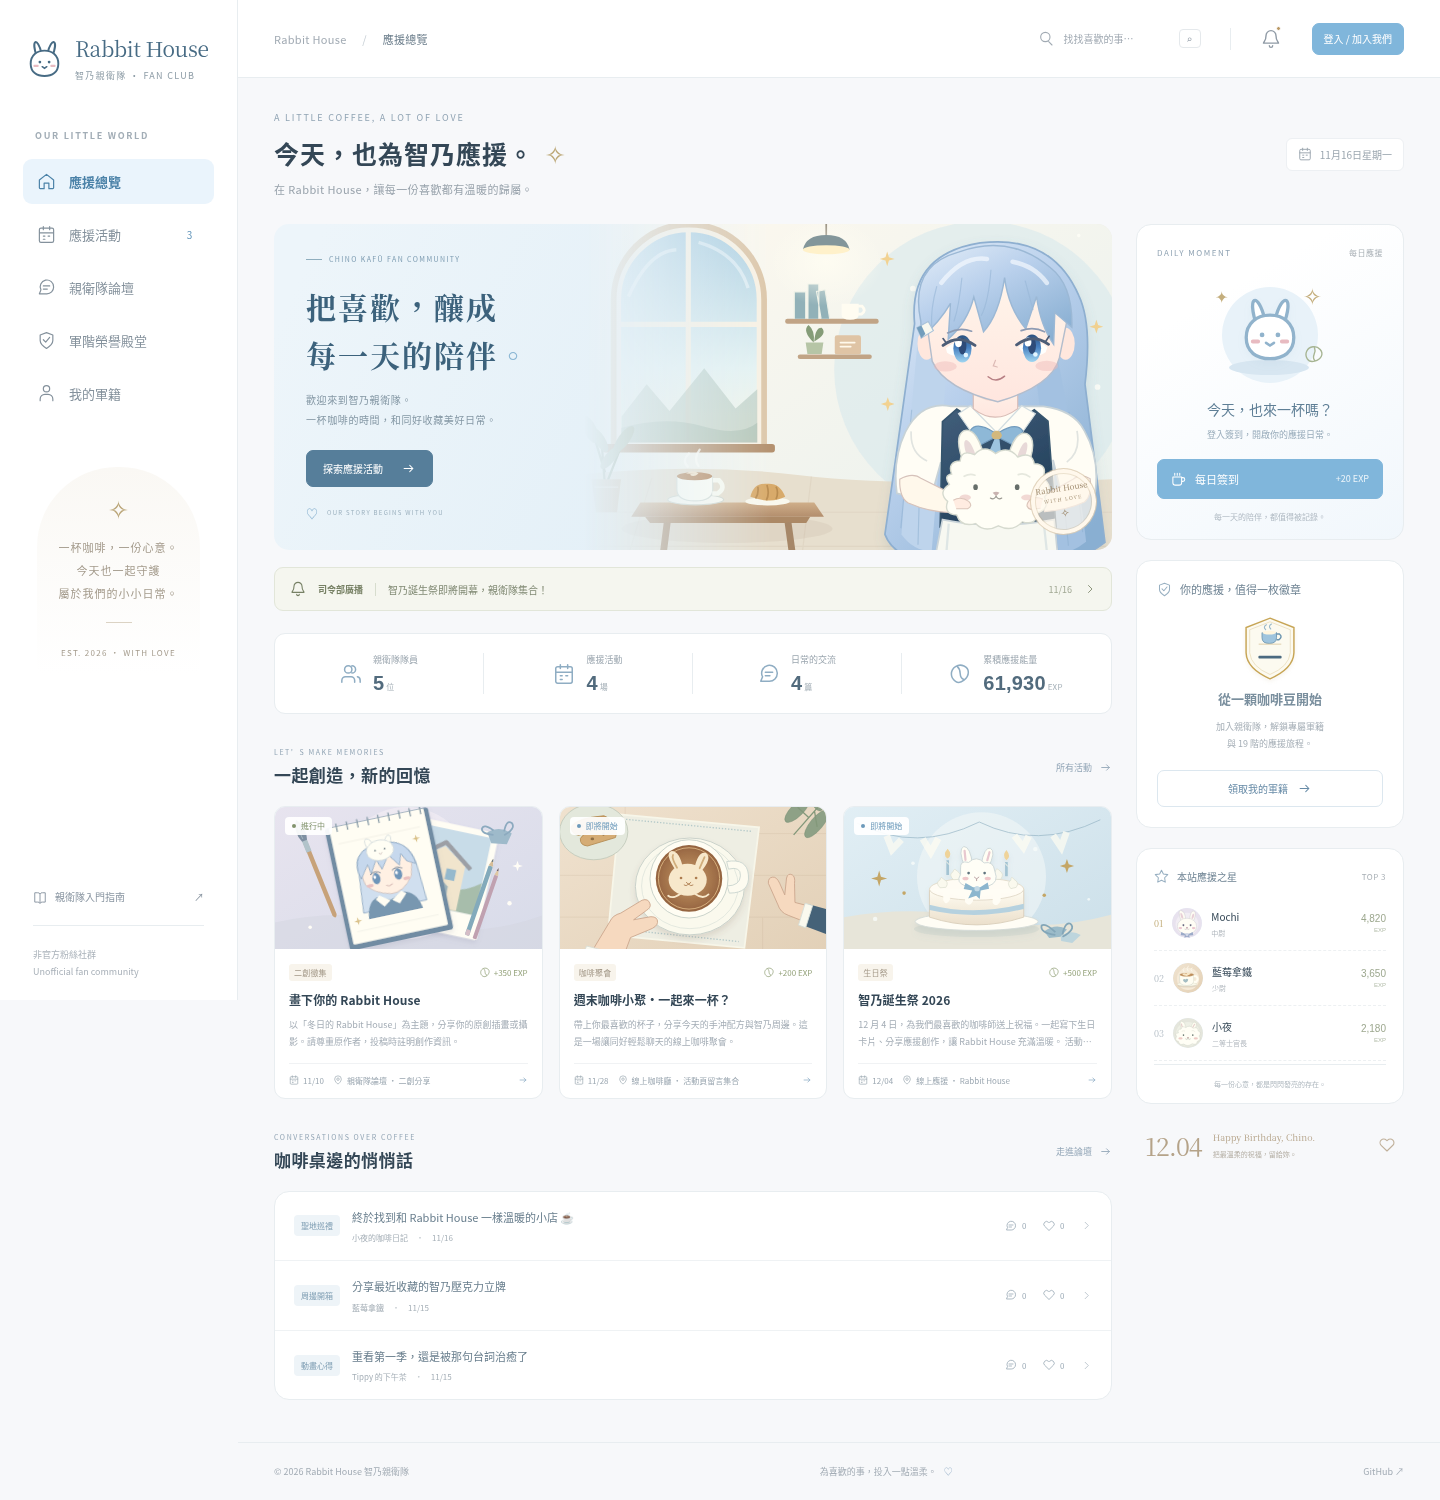
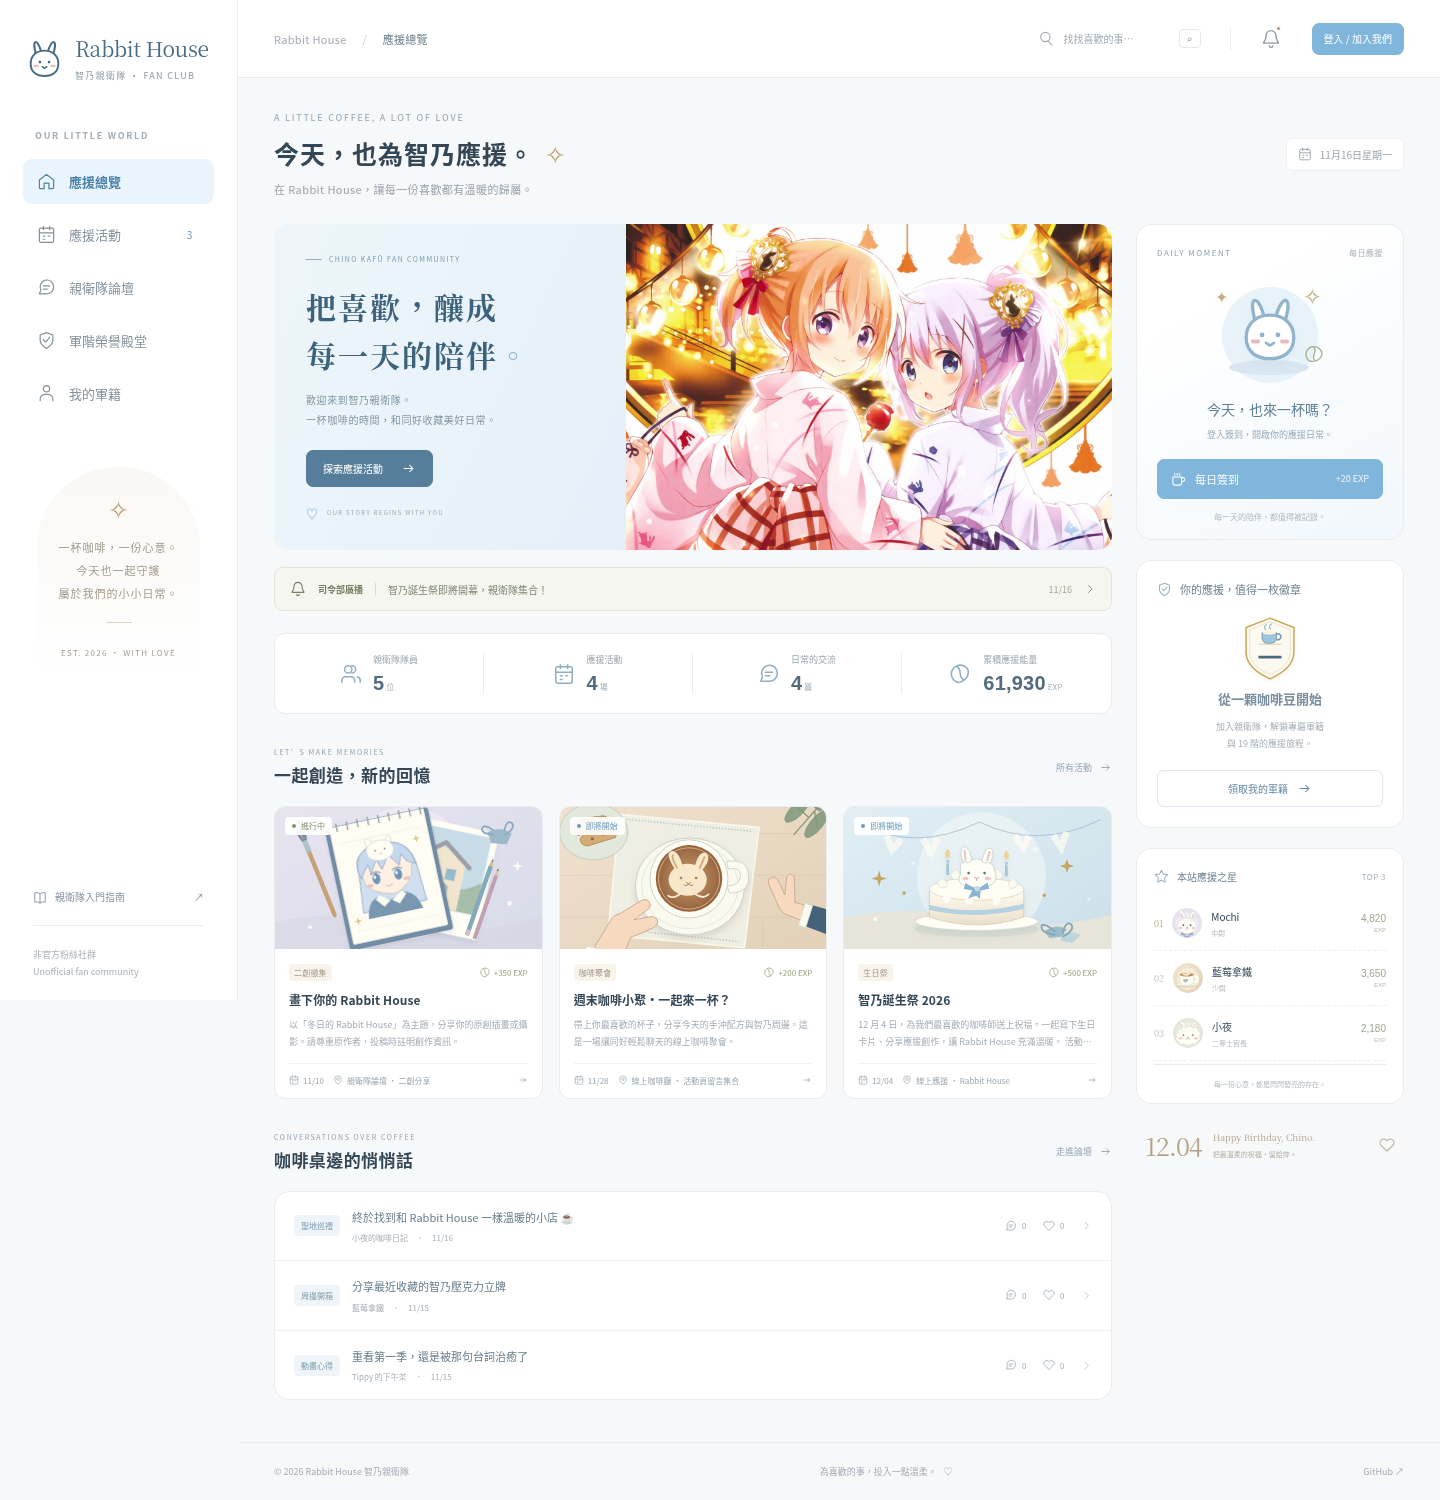
Replace homepage hero with festival artwork and update responsive previews

Changed region(s): [[0.4375, 0.1227, 0.7812, 0.368]]

diff --git a/static/app.js b/static/app.js
@@ -251,7 +251,7 @@ function home() {
   const open = state.events
     .filter((e) => eventState(e)[0] !== "ended")
     .slice(0, 3);
-  return `<div class="home-welcome"><div><span class="eyebrow">A LITTLE COFFEE, A LOT OF LOVE</span><h1>${state.user ? `歡迎回來，${esc(state.user.username)}。` : "今天，也為智乃應援。"} <span class="title-spark">✧</span></h1><p>在 Rabbit House，讓每一份喜歡都有溫暖的歸屬。</p></div><div class="today-label">${icon("calendar")} <span>${new Intl.DateTimeFormat("zh-TW", { month: "long", day: "numeric", weekday: "long", timeZone: "Asia/Taipei" }).format(new Date())}</span></div></div><div class="dashboard-grid"><div class="dashboard-main"><section class="hero"><div class="hero-content"><div class="hero-kicker"><span></span> CHINO KAFŪ FAN COMMUNITY</div><h2>把喜歡，釀成<br>每一天的陪伴<span>。</span></h2><p>歡迎來到智乃親衛隊。<br>一杯咖啡的時間，和同好收藏美好日常。</p><a class="button dark" href="/events">探索應援活動 ${icon("arrow")}</a><div class="hero-footnote"><span>♡</span> OUR STORY BEGINS WITH YOU</div></div><div class="hero-art"><img src="/static/art/hero.svg" alt="粉藍長髮的智乃與白色安哥拉兔在溫暖的 Rabbit House 咖啡廳"></div><span class="hero-stamp">Rabbit House<br><b>WITH LOVE</b><span>✧</span></span></section>${ann ? `<a href="/forum/${ann.id}" class="announcement-strip"><span class="broadcast-icon">${icon("bell")}</span><span class="broadcast-label">司令部廣播</span><span class="broadcast-title">${esc(ann.title)}</span><span class="broadcast-date">${date(ann.created_at)}</span>${icon("chevron")}</a>` : ""}<div class="stat-grid"><div>${icon("people")}<span><small>親衛隊隊員</small><b>${fmt(state.stats.members)}<em> 位</em></b></span></div><div>${icon("calendar")}<span><small>應援活動</small><b>${fmt(state.stats.events)}<em> 場</em></b></span></div><div>${icon("forum")}<span><small>日常的交流</small><b>${fmt(state.stats.posts)}<em> 篇</em></b></span></div><div>${icon("bean")}<span><small>累積應援能量</small><b>${fmt(state.stats.total_exp)}<em> EXP</em></b></span></div></div>${sectionHead("LET’S MAKE MEMORIES", "一起創造，新的回憶", "/events", "所有活動")}<div class="event-grid home-events">${open.length ? open.map(eventCard).join("") : '<div class="empty-state">新的應援活動正在準備中。</div>'}</div><section class="forum-preview">${sectionHead("CONVERSATIONS OVER COFFEE", "咖啡桌邊的悄悄話", "/forum", "走進論壇")}<div class="card post-list">${
+  return `<div class="home-welcome"><div><span class="eyebrow">A LITTLE COFFEE, A LOT OF LOVE</span><h1>${state.user ? `歡迎回來，${esc(state.user.username)}。` : "今天，也為智乃應援。"} <span class="title-spark">✧</span></h1><p>在 Rabbit House，讓每一份喜歡都有溫暖的歸屬。</p></div><div class="today-label">${icon("calendar")} <span>${new Intl.DateTimeFormat("zh-TW", { month: "long", day: "numeric", weekday: "long", timeZone: "Asia/Taipei" }).format(new Date())}</span></div></div><div class="dashboard-grid"><div class="dashboard-main"><section class="hero"><div class="hero-content"><div class="hero-kicker"><span></span> CHINO KAFŪ FAN COMMUNITY</div><h2>把喜歡，釀成<br>每一天的陪伴<span>。</span></h2><p>歡迎來到智乃親衛隊。<br>一杯咖啡的時間，和同好收藏美好日常。</p><a class="button dark" href="/events">探索應援活動 ${icon("arrow")}</a><div class="hero-footnote"><span>♡</span> OUR STORY BEGINS WITH YOU</div></div><div class="hero-art"><img src="/static/art/hero-festival.jpg" alt="穿著浴衣的心愛與智乃一同參與祭典"></div><span class="hero-stamp">Rabbit House<br><b>WITH LOVE</b><span>✧</span></span></section>${ann ? `<a href="/forum/${ann.id}" class="announcement-strip"><span class="broadcast-icon">${icon("bell")}</span><span class="broadcast-label">司令部廣播</span><span class="broadcast-title">${esc(ann.title)}</span><span class="broadcast-date">${date(ann.created_at)}</span>${icon("chevron")}</a>` : ""}<div class="stat-grid"><div>${icon("people")}<span><small>親衛隊隊員</small><b>${fmt(state.stats.members)}<em> 位</em></b></span></div><div>${icon("calendar")}<span><small>應援活動</small><b>${fmt(state.stats.events)}<em> 場</em></b></span></div><div>${icon("forum")}<span><small>日常的交流</small><b>${fmt(state.stats.posts)}<em> 篇</em></b></span></div><div>${icon("bean")}<span><small>累積應援能量</small><b>${fmt(state.stats.total_exp)}<em> EXP</em></b></span></div></div>${sectionHead("LET’S MAKE MEMORIES", "一起創造，新的回憶", "/events", "所有活動")}<div class="event-grid home-events">${open.length ? open.map(eventCard).join("") : '<div class="empty-state">新的應援活動正在準備中。</div>'}</div><section class="forum-preview">${sectionHead("CONVERSATIONS OVER COFFEE", "咖啡桌邊的悄悄話", "/forum", "走進論壇")}<div class="card post-list">${
     state.posts
       .filter((p) => !p.is_announcement)
       .slice(0, 3)

diff --git a/static/style.css b/static/style.css
@@ -4180,3 +4180,42 @@ input[type="radio"] {
   height: 100%;
   object-fit: contain;
 }
+
+/* Keep both characters visible in the new landscape hero artwork. */
+.hero {
+  display: grid;
+  grid-template-columns: minmax(0, 42%) minmax(0, 58%);
+}
+.hero-art {
+  position: relative;
+  inset: auto;
+  width: 100%;
+  height: 100%;
+  min-width: 0;
+  mask-image: none;
+}
+.hero-art img {
+  object-position: center;
+}
+.hero-stamp {
+  display: none;
+}
+@media (max-width: 960px) {
+  .hero {
+    height: auto;
+    grid-template-columns: minmax(0, 1fr);
+  }
+  .hero-content {
+    padding: 26px;
+  }
+  .hero p {
+    max-width: none;
+  }
+  .hero-art {
+    height: auto;
+    aspect-ratio: 16 / 9;
+  }
+  .hero-art img {
+    object-fit: contain;
+  }
+}

diff --git a/static/art/CREDITS.md b/static/art/CREDITS.md
@@ -1,6 +1,8 @@
 # Illustration credits
 
-All SVG illustrations in this directory are original vector artwork created for this project. No official anime images, extracted animation frames, third-party fonts, or externally hosted images are included.
+The SVG illustrations in this directory are original vector artwork created for this project.
+
+The homepage image, `hero-festival.jpg`, is third-party *Is the Order a Rabbit?* character artwork depicting Cocoa and Chino in festival yukata. Source: https://anihonetwallpaper.com/image/2016/05/33710-Gochiusa-PC.jpg (wallpaper listing: https://anihonetwallpaper.com/pc%E5%A3%81%E7%B4%99/15696). Rights to this artwork remain with its respective rights holders.
 
 This is an unofficial, non-commercial fan tribute to Chino Kafū and Rabbit House from *Is the Order a Rabbit?* Character and series rights belong to their respective rights holders. The military-inspired insignia and fictional fan ranks are decorative community designs.
 

diff --git a/README.md b/README.md
@@ -2,7 +2,7 @@
 
 以 Flask 製作的香風智乃粉絲應援網站，結合咖啡廳社群與中華民國陸軍 19 階晉升制度。介面使用繁體中文，提供訪客瀏覽、會員活動與論壇互動，以及管理員總司令部。
 
-這是非官方粉絲作品；網站的活動、會員與貼文範例均為示範資料，與原作官方或軍方無關。專案插圖為原創向量繪圖，詳見 `static/art/CREDITS.md`。
+這是非官方粉絲作品；網站的活動、會員與貼文範例均為示範資料，與原作官方或軍方無關。活動、頭像與軍階 SVG 為原創向量繪圖；首頁替換圖片的來源與說明詳見 `static/art/CREDITS.md`。
 
 ## 網站預覽
 
